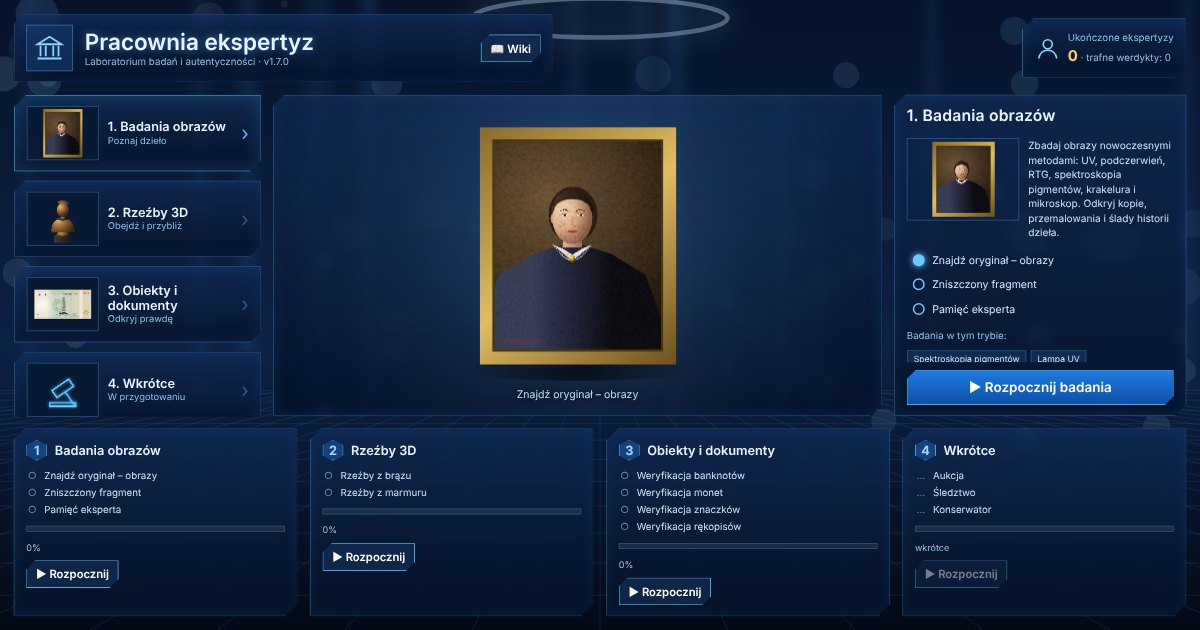
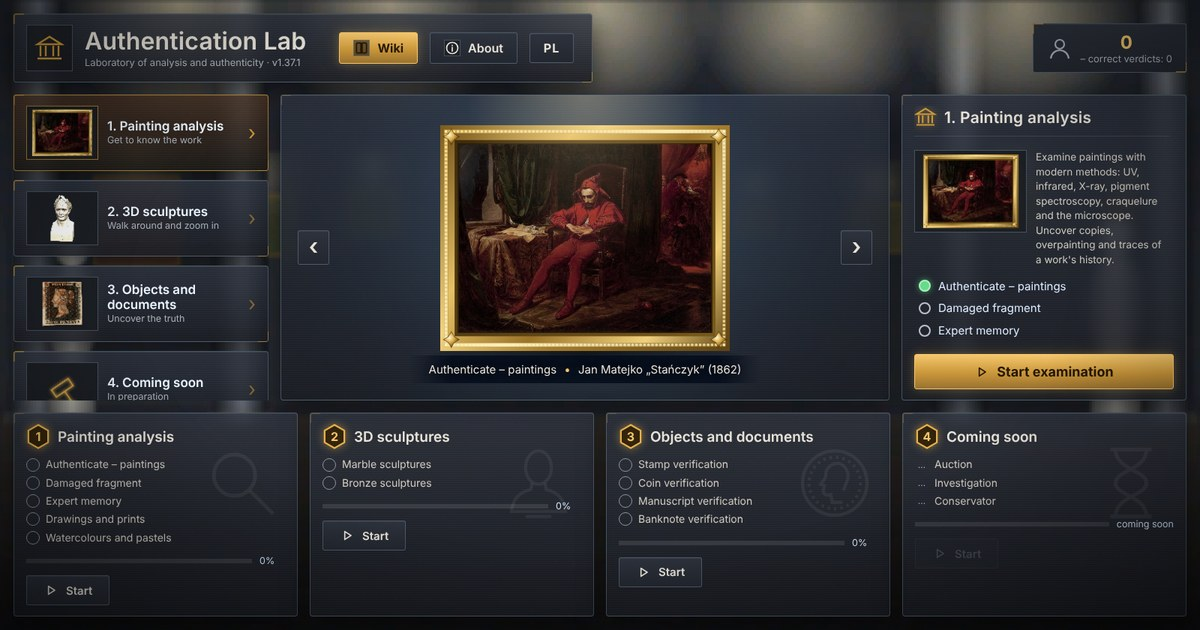
1.37.2: miniatura og-image z nowym ekranem startowym
Claude-Session: https://claude.ai/code/session_011wBEnfstiZVksV4ajAyGr5

diff --git a/js/version.js b/js/version.js
@@ -1,3 +1,3 @@
 "use strict";
 /* Wersja gry – podbijaj przy każdej zmianie (semver) i dopisz wpis w CHANGELOG.md */
-const VERSION='1.37.1';
+const VERSION='1.37.2';

diff --git a/CHANGELOG.md b/CHANGELOG.md
@@ -2,6 +2,10 @@
 
 Format: [Keep a Changelog](https://keepachangelog.com/pl/1.1.0/), wersje według [SemVer](https://semver.org/lang/pl/).
 
+## [1.37.2] – 2026-11-13
+### Zmienione
+- Miniatura dla wyszukiwarek i udostępnień (`og-image.jpg`): nowy ekran startowy.
+
 ## [1.37.1] – 2026-11-13
 ### Dodane
 - O programie: kontakt (numer telefonu autora).
